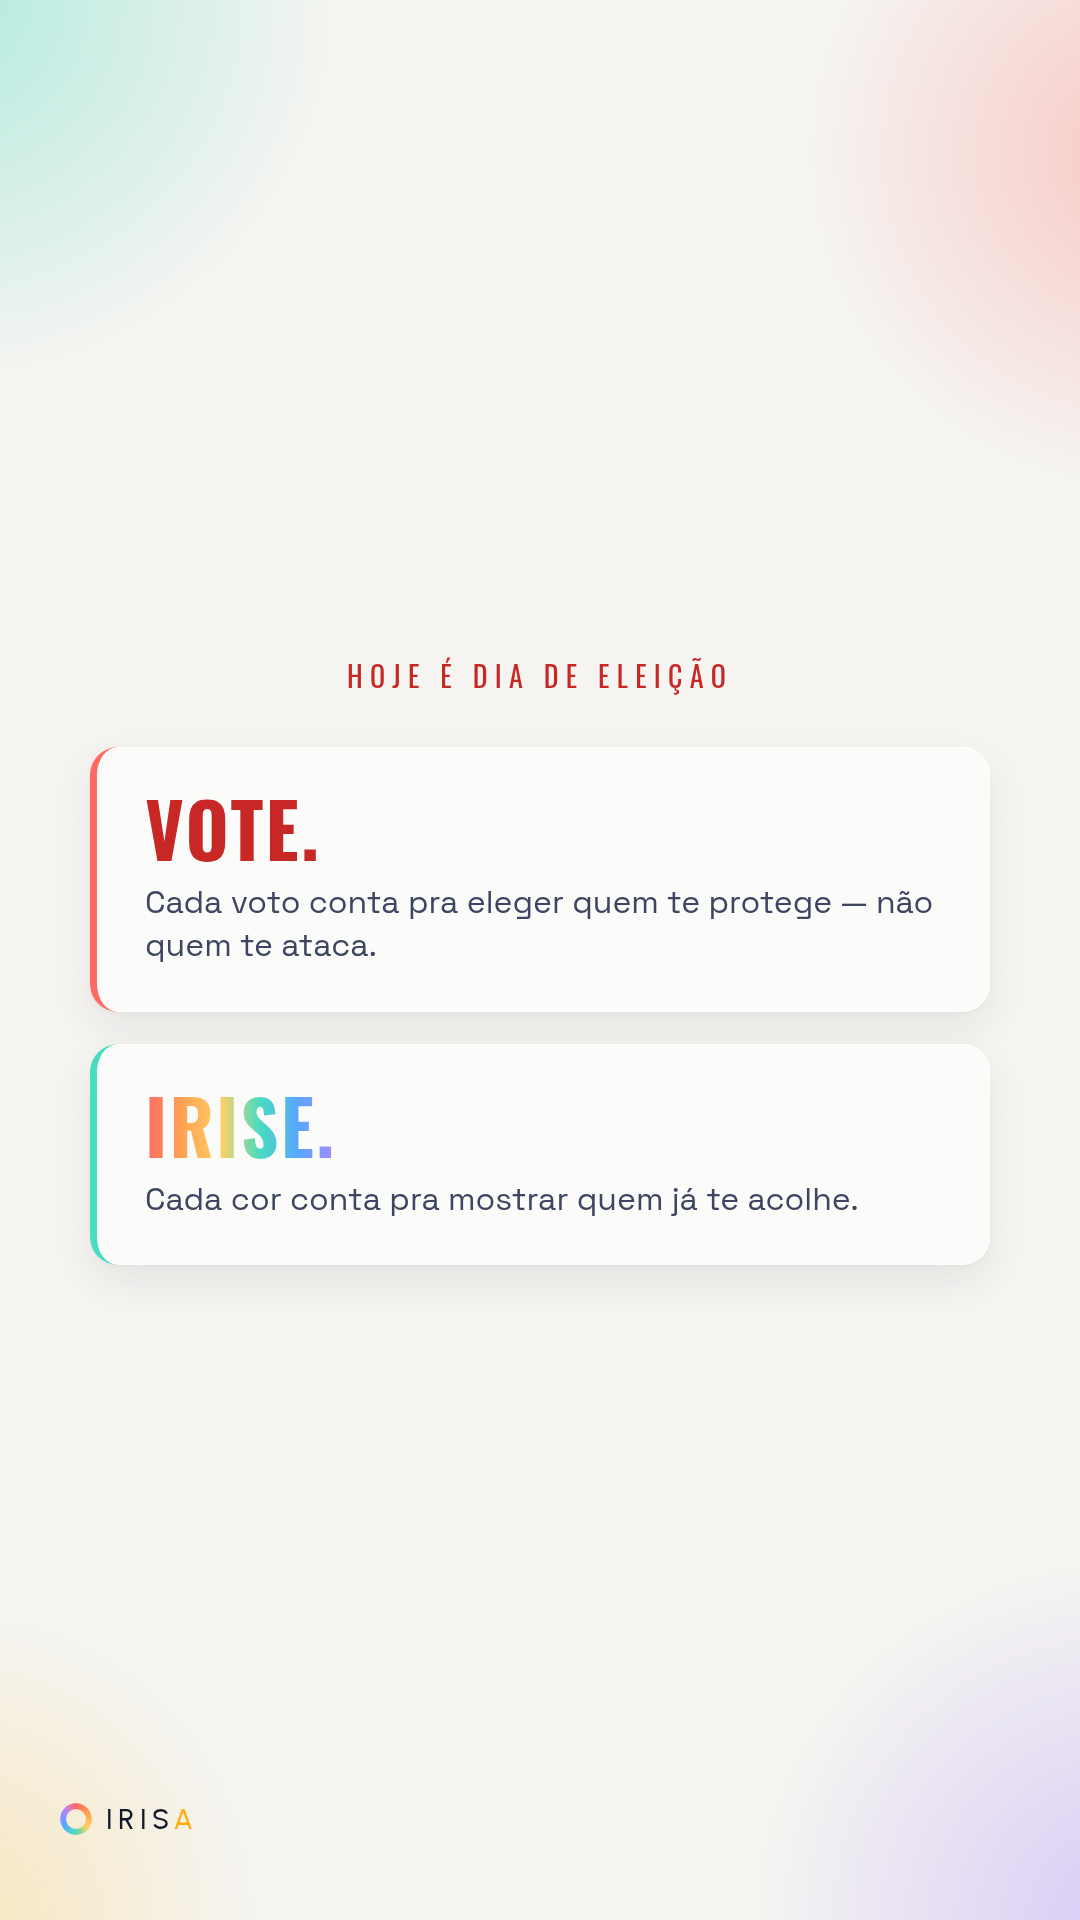
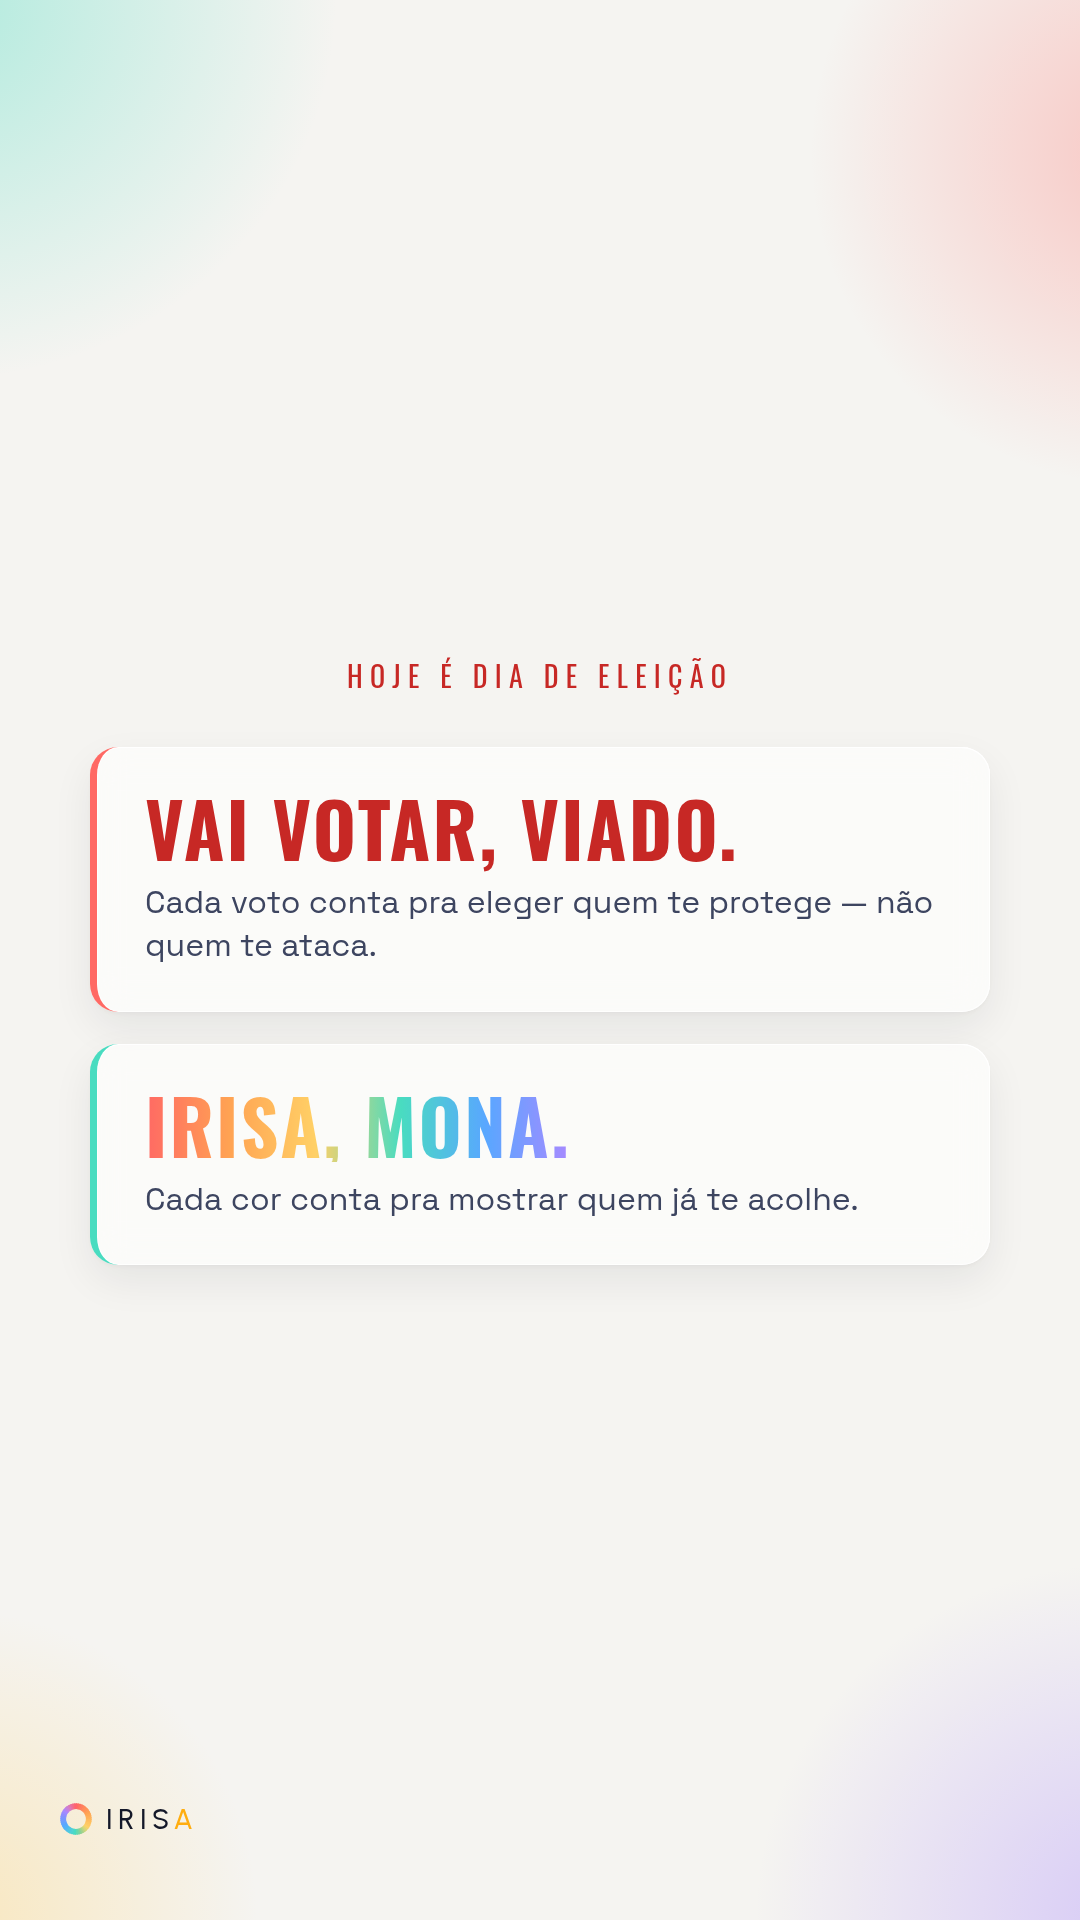
Lamina da eleicao na voz da comunidade
Trocado por ele em 03/10: "Vote." virou "Vai votar, viado." e "Irise."
virou "Irisa, mona.". O resto da lamina fica igual: sem partido, sem
candidato, so o ato de votar e o gesto de irisar um lugar.

Claude-Session: https://claude.ai/code/session_015WqfV53Y8EeDbiaJmrZRa2

diff --git a/docs/stories-2.html b/docs/stories-2.html
@@ -516,8 +516,8 @@ span.mark::before{content:"";position:absolute;left:50%;top:50%;width:8px;height
 <section class="sl story" style="justify-content:center;gap:0"><div class="bg"></div><div class="brand"><svg class="mark" viewBox="0 0 100 100"><use href="#radarmin"></use></svg><span>Iris<b>a</b></span></div>
 <div class="small c" style="color:var(--coralInk)">hoje é dia de eleição</div>
 <div class="two" style="margin-top:50px">
-  <div style="border-left:7px solid var(--coral)"><h3 style="color:var(--coralInk)">Vote.</h3><p>Cada voto conta pra eleger quem te protege — não quem te ataca.</p></div>
-  <div style="border-left:7px solid var(--turq)"><h3 style="display:inline-block;background:var(--rainbow);-webkit-background-clip:text;background-clip:text;color:transparent">Irise.</h3><p>Cada cor conta pra mostrar quem já te acolhe.</p></div>
+  <div style="border-left:7px solid var(--coral)"><h3 style="color:var(--coralInk)">Vai votar, viado.</h3><p>Cada voto conta pra eleger quem te protege — não quem te ataca.</p></div>
+  <div style="border-left:7px solid var(--turq)"><h3 style="display:inline-block;background:var(--rainbow);-webkit-background-clip:text;background-clip:text;color:transparent">Irisa, mona.</h3><p>Cada cor conta pra mostrar quem já te acolhe.</p></div>
 </div>
 </section>
 </body></html>

diff --git a/docs/legendas/stories-2.md b/docs/legendas/stories-2.md
@@ -18,12 +18,12 @@ implícita (quase todo mundo já deixou), então sustenta sozinha sem precisar d
 **Trocou de lugar com a story-02 a pedido dele (03/10)**: furou a fila pra sair no sábado,
 aprovada e marcada "publicar agora" no artefato — publicada 17h55 do mesmo dia.
 
-## story-05 · `stories-2/05.png` (VOTE/IRISE) — dom 04/10, 12h, dia de eleição
-"VOTE. Cada voto conta pra eleger quem te protege — não quem te ataca. IRISE. Cada cor conta
-pra mostrar quem já te acolhe." Dois cartões lado a lado (borda coral/turquesa), sem citar
+## story-05 · `stories-2/05.png` (VAI VOTAR, VIADO / IRISA, MONA) — dom 04/10, 12h, dia de eleição
+"VAI VOTAR, VIADO. Cada voto conta pra eleger quem te protege — não quem te ataca. IRISA, MONA.
+Cada cor conta pra mostrar quem já te acolhe." Dois cartões lado a lado (borda coral/turquesa), sem citar
 partido ou candidato — é sobre o ato de votar e a garantia de direitos, ligado ao gesto de
 irisar um lugar. Pedida e aprovada por ele no chat em 03/10 (texto workshopeado até chegar
-nessa versão); `aprovado: true` direto no `fila.json`, sem passar pelo artefato — é a exceção
+nessa versão; títulos trocados por ele em 03/10, na voz da comunidade); `aprovado: true` direto no `fila.json`, sem passar pelo artefato — é a exceção
 do CLAUDE.md pra aprovação explícita em chat. Entrou no lugar da story-02 nesse horário.
 
 ## story-02 · `stories-2/02.png` (convite a responder) — adiada pra ter 06/10, 12h
